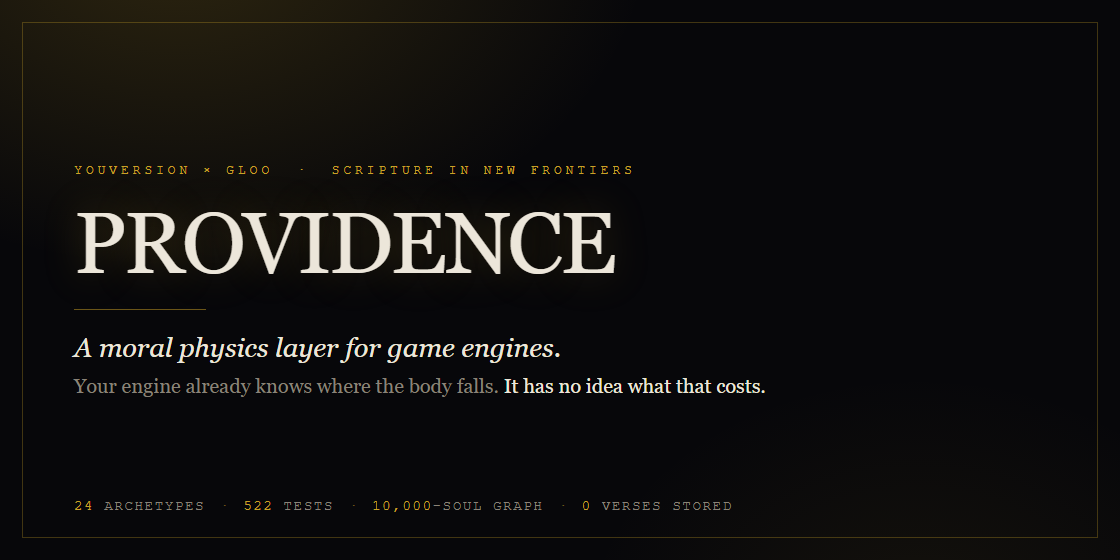
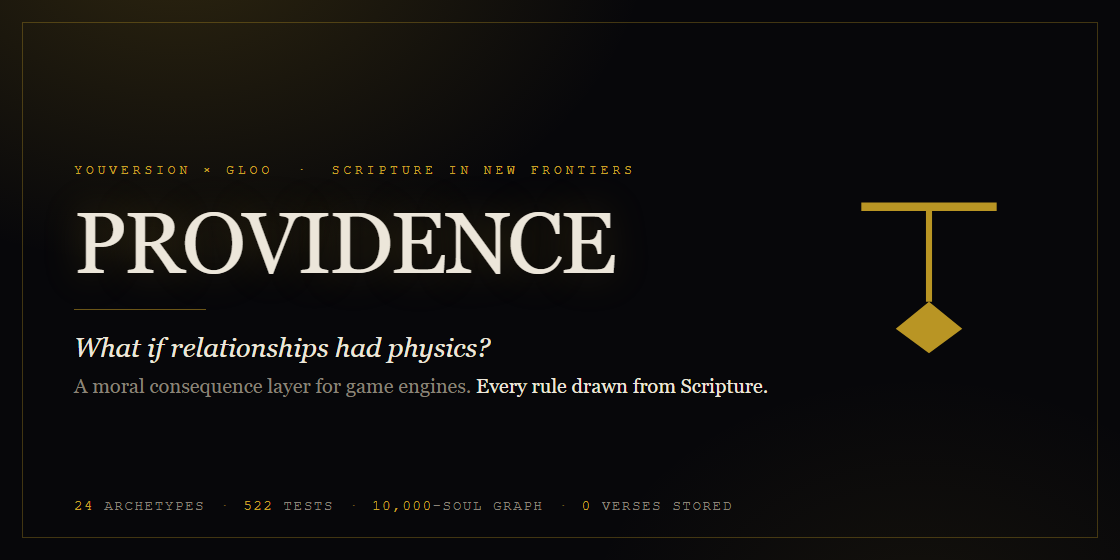
Put the mark on the card, and let it say the thing the video says
He wanted the logo on it. A logo alone in a gallery of fifty-five entries tells a
judge nothing, so it goes beside the title rather than instead of it — the same
plumb-line geometry as src/editor/logo.ts, so the card and the running tool
cannot end up showing two different marks.

Hanging dead still, which is the mark's own idle state: in the editor it swings
on a damped pendulum and every event knocks it, and a card has no world in it.

The line is now "What if relationships had physics?", which is his, out of the
narration. A judge reads it on the card, presses play, and hears the same
question thirty seconds in.

Changed region(s): [[0.0625, 0.6679, 0.6875, 0.7286], [0.75, 0.3339, 0.9062, 0.6375], [0.0625, 0.6071, 0.5, 0.6375]]

diff --git a/docs/card.html b/docs/card.html
@@ -44,6 +44,12 @@
   }
   .plate { padding: 0 74px; width: 100%; }
 
+  /* The mark, hanging dead still. In the editor it swings on a damped pendulum
+     and every event in the world knocks it; here there is no world, so it reads
+     as what a plumb line reads as when nothing is happening: true. */
+  .mark { position: absolute; right: 96px; top: 50%; transform: translateY(-50%); }
+  .mark svg { width: 190px; height: 190px; opacity: .92; }
+
   .eyebrow {
     font-family: 'Courier New', monospace;
     font-size: 13px;
@@ -86,13 +92,23 @@
 
 <div class="frame"></div>
 
+<!-- The same geometry as src/editor/logo.ts, so the card and the running tool
+     cannot show two different marks. -->
+<div class="mark">
+  <svg viewBox="0 0 24 24" xmlns="http://www.w3.org/2000/svg">
+    <line x1="4" y1="3" x2="20" y2="3" stroke="#c9a227" stroke-width="1.1" stroke-linecap="square"/>
+    <line x1="12" y1="3" x2="12" y2="15" stroke="#c9a227" stroke-width="0.77"/>
+    <path d="M 12 15 L 16.2 18.4 L 12 21.5 L 7.8 18.4 Z" fill="#c9a227"/>
+  </svg>
+</div>
+
 <div class="plate">
   <div class="eyebrow">YouVersion &times; Gloo &nbsp;&middot;&nbsp; Scripture in New Frontiers</div>
   <h1>PROVIDENCE</h1>
   <div class="rule"></div>
-  <div class="said">A moral physics layer for game engines.</div>
+  <div class="said">What if relationships had physics?</div>
   <div class="then">
-    Your engine already knows where the body falls. <b>It has no idea what that costs.</b>
+    A moral consequence layer for game engines. <b>Every rule drawn from Scripture.</b>
   </div>
 </div>
 
